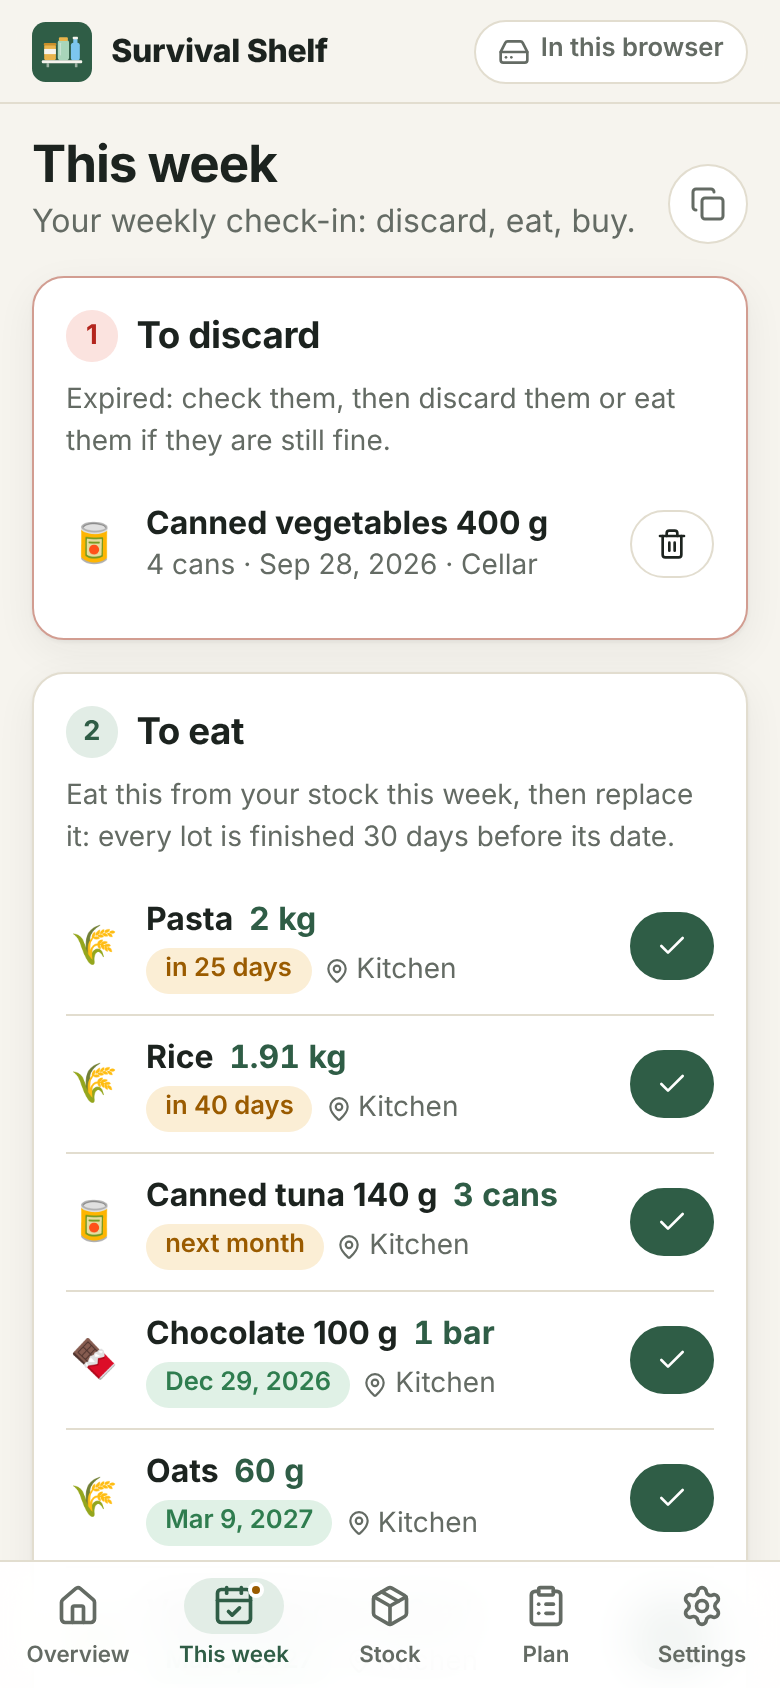
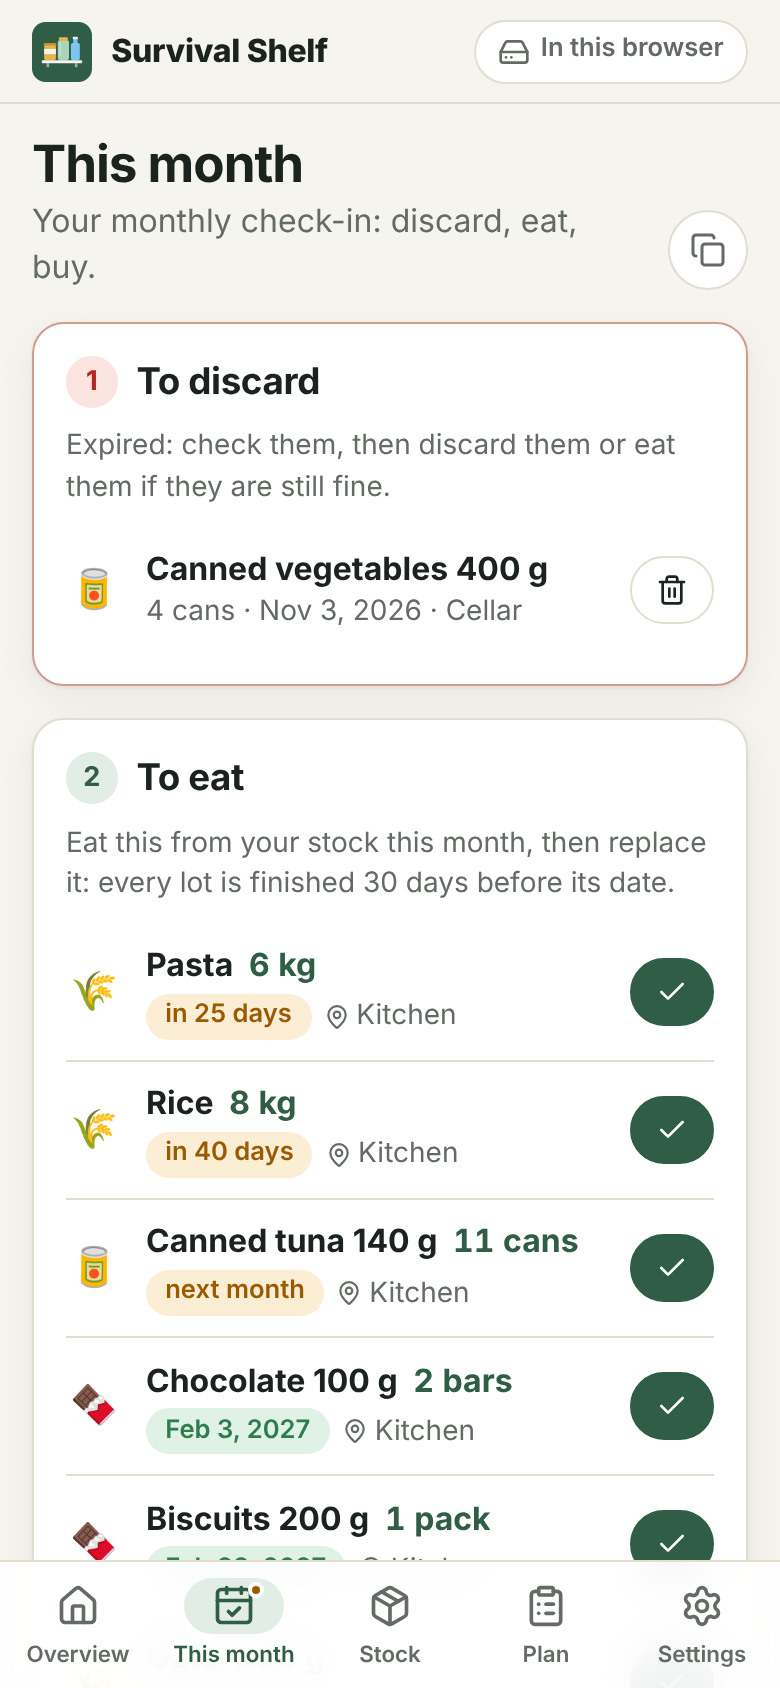
Make monthly the most frequent check-in (#9)
Weekly check-ins were too frequent: the rhythm now goes monthly,
quarterly or every 6 months, monthly by default. The weekly value is
gone from the settings, the file format, the labels and the calendar
reminder. A file that still says "weekly" gets the usual invalid-setting
warning and falls back to monthly.

Refresh the README screenshots that showed "This week".

Claude-Session: https://claude.ai/code/session_01VbHUrWfcU6zaHqyEirePTZ

diff --git a/src/lib/i18n/fr.ts b/src/lib/i18n/fr.ts
@@ -13,7 +13,6 @@ export const fr: Record<keyof typeof en, string> = {
   'nav.label': 'Navigation principale',
   'nav.home': 'Accueil',
   'nav.stock': 'Stock',
-  'nav.checkinWeekly': 'Semaine',
   'nav.checkinMonthly': 'Mois',
   'nav.checkinQuarterly': 'Trimestre',
   'nav.checkinSemiannual': '6 mois',
@@ -64,7 +63,7 @@ export const fr: Record<keyof typeof en, string> = {
   'home.emptyText': 'Crée ton plan pour savoir quoi acheter, ou ajoute ce que tu as déjà.',
   'home.readyAction': 'Quoi acheter',
   'home.readyText':
-    'Commence par le premier palier : la liste de la semaine te dit quoi acheter. Tu as déjà des réserves ? Ajoute-les au stock.',
+    'Commence par le premier palier : la liste de ton rendez-vous te dit quoi acheter. Tu as déjà des réserves ? Ajoute-les au stock.',
   'home.readyTitle': 'Ton plan est prêt',
 
   'setup.step': 'Étape {step} sur {total}',
@@ -138,11 +137,9 @@ export const fr: Record<keyof typeof en, string> = {
   'plan.unplannedText':
     'Dans ton stock mais pas comptés dans les paliers. Touche-en un pour lui donner une conso par jour.',
 
-  'checkin.titleWeekly': 'Cette semaine',
   'checkin.titleMonthly': 'Ce mois-ci',
   'checkin.titleQuarterly': 'Ce trimestre',
   'checkin.titleSemiannual': 'Ce semestre',
-  'checkin.subtitleWeekly': 'Ton rendez-vous de la semaine : jeter, manger, acheter.',
   'checkin.subtitleMonthly': 'Ton rendez-vous du mois : jeter, manger, acheter.',
   'checkin.subtitleQuarterly': 'Ton rendez-vous du trimestre : jeter, manger, acheter.',
   'checkin.subtitleSemiannual': 'Ton rendez-vous des 6 mois : jeter, manger, acheter.',
@@ -150,8 +147,6 @@ export const fr: Record<keyof typeof en, string> = {
   'checkin.discardText': 'Périmés : vérifie-les, puis jette-les ou mange-les s’ils sont encore bons.',
   'checkin.discarded': 'Jeté',
   'checkin.consumeTitle': 'À manger',
-  'checkin.consumeTextWeekly':
-    'Mange ça cette semaine depuis ton stock, puis remplace-le : chaque lot est fini {margin} jours avant sa date.',
   'checkin.consumeTextMonthly':
     'Mange ça ce mois-ci depuis ton stock, puis remplace-le : chaque lot est fini {margin} jours avant sa date.',
   'checkin.consumeTextQuarterly':
@@ -292,7 +287,6 @@ export const fr: Record<keyof typeof en, string> = {
   'settings.addTier': 'Ajouter un palier',
   'settings.tiersHint': 'Construits l’un après l’autre : l’appli t’aide à compléter le premier, puis le suivant.',
   'settings.rhythm': 'Rendez-vous',
-  'settings.weekly': 'Semaine',
   'settings.monthly': 'Mois',
   'settings.quarterly': 'Trimestre',
   'settings.semiannual': '6 mois',

diff --git a/src/lib/i18n/en.ts b/src/lib/i18n/en.ts
@@ -12,7 +12,6 @@ export const en = {
   'nav.label': 'Main navigation',
   'nav.home': 'Overview',
   'nav.stock': 'Stock',
-  'nav.checkinWeekly': 'This week',
   'nav.checkinMonthly': 'This month',
   'nav.checkinQuarterly': 'This quarter',
   'nav.checkinSemiannual': 'Half-year',
@@ -63,7 +62,7 @@ export const en = {
   'home.emptyText': 'Create your plan to know what to buy, or add what you already have.',
   'home.readyAction': 'What to buy',
   'home.readyText':
-    'Start with the first tier: this week’s list tells you what to buy. Already have some supplies? Add them to the stock.',
+    'Start with the first tier: your check-in list tells you what to buy. Already have some supplies? Add them to the stock.',
   'home.readyTitle': 'Your plan is ready',
 
   'setup.step': 'Step {step} of {total}',
@@ -136,11 +135,9 @@ export const en = {
   'plan.unplannedTitle': 'Not in the plan',
   'plan.unplannedText': 'In your stock but not counted in the tiers. Tap one to give it a use per day.',
 
-  'checkin.titleWeekly': 'This week',
   'checkin.titleMonthly': 'This month',
   'checkin.titleQuarterly': 'This quarter',
   'checkin.titleSemiannual': 'This half-year',
-  'checkin.subtitleWeekly': 'Your weekly check-in: discard, eat, buy.',
   'checkin.subtitleMonthly': 'Your monthly check-in: discard, eat, buy.',
   'checkin.subtitleQuarterly': 'Your quarterly check-in: discard, eat, buy.',
   'checkin.subtitleSemiannual': 'Your half-yearly check-in: discard, eat, buy.',
@@ -148,8 +145,6 @@ export const en = {
   'checkin.discardText': 'Expired: check them, then discard them or eat them if they are still fine.',
   'checkin.discarded': 'Discarded',
   'checkin.consumeTitle': 'To eat',
-  'checkin.consumeTextWeekly':
-    'Eat this from your stock this week, then replace it: every lot is finished {margin} days before its date.',
   'checkin.consumeTextMonthly':
     'Eat this from your stock this month, then replace it: every lot is finished {margin} days before its date.',
   'checkin.consumeTextQuarterly':
@@ -288,7 +283,6 @@ export const en = {
   'settings.addTier': 'Add a tier',
   'settings.tiersHint': 'Built one after the other: the app helps you complete the first, then the next.',
   'settings.rhythm': 'Check-in',
-  'settings.weekly': 'Week',
   'settings.monthly': 'Month',
   'settings.quarterly': 'Quarter',
   'settings.semiannual': '6 months',

diff --git a/src/lib/core/planning.test.ts b/src/lib/core/planning.test.ts
@@ -219,16 +219,13 @@ describe('check-in', () => {
     const autonomy = computeAutonomy(shelf, TODAY);
     const plan = tierPlan(shelf, autonomy, TODAY);
 
-    const week = checkIn(shelf, TODAY, rotationPlan(shelf, TODAY), plan.current);
-    expect(week.periodDays).toBe(7);
-    expect(week.discard.map((lot) => lot.product)).toEqual(['Water']);
-    expect(week.consume.map((item) => [item.product.name, item.qty])).toEqual([['Rice', 1]]);
-    expect(week.buy?.days).toBe(3); // Not even 3 days of water: the expired lot does not count.
-
-    shelf.settings.rhythm = 'monthly';
+    // Monthly by default.
     const month = checkIn(shelf, TODAY, rotationPlan(shelf, TODAY), plan.current);
+    expect(month.periodDays).toBe(30);
+    expect(month.discard.map((lot) => lot.product)).toEqual(['Water']);
     // Tuna's pace (0.4 can a month) rounds to nothing: it shows up when it is due.
     expect(month.consume.map((item) => [item.product.name, item.qty])).toEqual([['Rice', 4.29]]);
+    expect(month.buy?.days).toBe(3); // Not even 3 days of water: the expired lot does not count.
 
     shelf.settings.rhythm = 'quarterly';
     const quarter = checkIn(shelf, TODAY, rotationPlan(shelf, TODAY), plan.current);
@@ -260,17 +257,17 @@ describe('check-in', () => {
 describe('reminder calendar', () => {
   const now = new Date(Date.UTC(2026, 9, 10, 8, 30));
 
-  it('writes a weekly reminder at local time', () => {
+  it('writes a monthly reminder at local time', () => {
     const ics = reminderCalendar({
       start: '2026-10-17T10:00',
-      rhythm: 'weekly',
+      rhythm: 'monthly',
       title: 'Survival Shelf: check-in',
       description: 'Consume, buy, discard; see the app',
       url: 'https://example.org/survival-shelf/',
       now,
     });
     expect(ics).toContain('DTSTART:20261017T100000\r\n');
-    expect(ics).toContain('RRULE:FREQ=WEEKLY\r\n');
+    expect(ics).toContain('RRULE:FREQ=MONTHLY;BYDAY=3SA\r\n');
     expect(ics).toContain('DTSTAMP:20261010T083000Z\r\n');
     expect(ics).toContain('SUMMARY:Survival Shelf: check-in\r\n');
     // Long lines are folded: a line break followed by a space.

diff --git a/src/lib/core/ics.ts b/src/lib/core/ics.ts
@@ -47,14 +47,13 @@ function utcStamp(date: Date): string {
   return date.toISOString().replace(/[-:]/g, '').replace(/\.\d{3}/, '');
 }
 
-const MONTHS: Record<Exclude<Rhythm, 'weekly'>, number> = { monthly: 1, quarterly: 3, semiannual: 6 };
+const MONTHS: Record<Rhythm, number> = { monthly: 1, quarterly: 3, semiannual: 6 };
 
 /**
- * Recurrence: every week, or every 1, 3 or 6 months on the same weekday of the
- * month ("2nd Saturday", "last Sunday").
+ * Recurrence: every 1, 3 or 6 months on the same weekday of the month
+ * ("2nd Saturday", "last Sunday").
  */
 function recurrence(year: number, month: number, day: number, rhythm: Rhythm): string {
-  if (rhythm === 'weekly') return 'FREQ=WEEKLY';
   const weekday = WEEKDAYS[new Date(Date.UTC(year, month - 1, day)).getUTCDay()];
   const nth = Math.ceil(day / 7);
   const interval = MONTHS[rhythm] > 1 ? `;INTERVAL=${MONTHS[rhythm]}` : '';

diff --git a/src/lib/ui/format.ts b/src/lib/ui/format.ts
@@ -92,13 +92,6 @@ export function tierLabel(days: number): string {
 
 /** Texts that depend on the check-in rhythm. */
 export const RHYTHM_TEXTS = {
-  weekly: {
-    choice: 'settings.weekly',
-    nav: 'nav.checkinWeekly',
-    title: 'checkin.titleWeekly',
-    subtitle: 'checkin.subtitleWeekly',
-    consume: 'checkin.consumeTextWeekly',
-  },
   monthly: {
     choice: 'settings.monthly',
     nav: 'nav.checkinMonthly',
@@ -122,7 +115,7 @@ export const RHYTHM_TEXTS = {
   },
 } satisfies Record<Rhythm, Record<string, MessageKey>>;
 
-/** "This week", "This month"…, depending on the check-in rhythm. */
+/** "This month", "This quarter"…, depending on the check-in rhythm. */
 export function checkinTitle(rhythm: Rhythm): string {
   return t(RHYTHM_TEXTS[rhythm].title);
 }

diff --git a/index.html b/index.html
@@ -3,7 +3,7 @@
   <head>
     <meta charset="UTF-8" />
     <meta name="viewport" content="width=device-width, initial-scale=1, viewport-fit=cover" />
-    <meta name="description" content="Build your survival stock tier by tier, offline: what to discard, eat and buy each week." />
+    <meta name="description" content="Build your survival stock tier by tier, offline: what to discard, eat and buy each month." />
     <meta name="theme-color" content="#2f5d46" media="(prefers-color-scheme: light)" />
     <meta name="theme-color" content="#101513" media="(prefers-color-scheme: dark)" />
     <meta name="mobile-web-app-capable" content="yes" />

diff --git a/src/lib/core/document.test.ts b/src/lib/core/document.test.ts
@@ -202,10 +202,11 @@ Beans | can | red \\| white
 | Setting | Value |
 |---|---|
 | Tiers (days) | 7, one month |
-| Check-in | daily |
+| Check-in | weekly |
 `);
     expect(shelf.settings.tiers).toEqual([3, 7, 30, 365]);
-    expect(shelf.settings.rhythm).toBe('weekly');
+    // Weekly is not a choice any more: monthly is the most frequent check-in.
+    expect(shelf.settings.rhythm).toBe('monthly');
     expect(issues.map((issue) => issue.code)).toEqual(['invalidSetting', 'invalidSetting']);
   });
 

diff --git a/src/lib/core/checkin.ts b/src/lib/core/checkin.ts
@@ -5,7 +5,7 @@ import { expiryAlerts } from './status';
 import { roundQuantity } from './text';
 import type { Lot, Product, Rhythm, Shelf } from './types';
 
-export const PERIOD_DAYS: Record<Rhythm, number> = { weekly: 7, monthly: 30, quarterly: 91, semiannual: 182 };
+export const PERIOD_DAYS: Record<Rhythm, number> = { monthly: 30, quarterly: 91, semiannual: 182 };
 
 /** Check-in rhythms, from the most to the least frequent. */
 export const RHYTHMS = Object.keys(PERIOD_DAYS) as Rhythm[];

diff --git a/vite.config.ts b/vite.config.ts
@@ -31,7 +31,7 @@ export default defineConfig(({ mode }) => {
               id: './',
               name: 'Survival Shelf',
               short_name: 'Survival Shelf',
-              description: 'Build your survival stock tier by tier, offline: what to discard, eat and buy each week.',
+              description: 'Build your survival stock tier by tier, offline: what to discard, eat and buy each month.',
               lang: 'en',
               start_url: './',
               scope: './',

diff --git a/src/lib/core/types.ts b/src/lib/core/types.ts
@@ -2,7 +2,7 @@
 export type Extra = Record<string, string>;
 
 /** How often the app prepares the list of what to consume, buy and discard. */
-export type Rhythm = 'weekly' | 'monthly' | 'quarterly' | 'semiannual';
+export type Rhythm = 'monthly' | 'quarterly' | 'semiannual';
 
 export interface Settings {
   /** Number of people living on the stock. */

diff --git a/src/lib/core/document.ts b/src/lib/core/document.ts
@@ -134,11 +134,6 @@ const COLUMNS: Record<SectionName, ColumnDef[]> = {
 };
 
 const RHYTHM_ALIASES: Record<string, Rhythm> = {
-  weekly: 'weekly',
-  week: 'weekly',
-  hebdo: 'weekly',
-  hebdomadaire: 'weekly',
-  semaine: 'weekly',
   monthly: 'monthly',
   month: 'monthly',
   mensuel: 'monthly',

diff --git a/src/lib/core/defaults.ts b/src/lib/core/defaults.ts
@@ -9,7 +9,7 @@ export const DEFAULT_SETTINGS: Settings = {
   kcalPerPersonPerDay: 2200,
   waterPerPersonPerDay: 3,
   tiers: DEFAULT_TIERS,
-  rhythm: 'weekly',
+  rhythm: 'monthly',
   warningDays: 60,
   rotationMarginDays: 30,
 };
